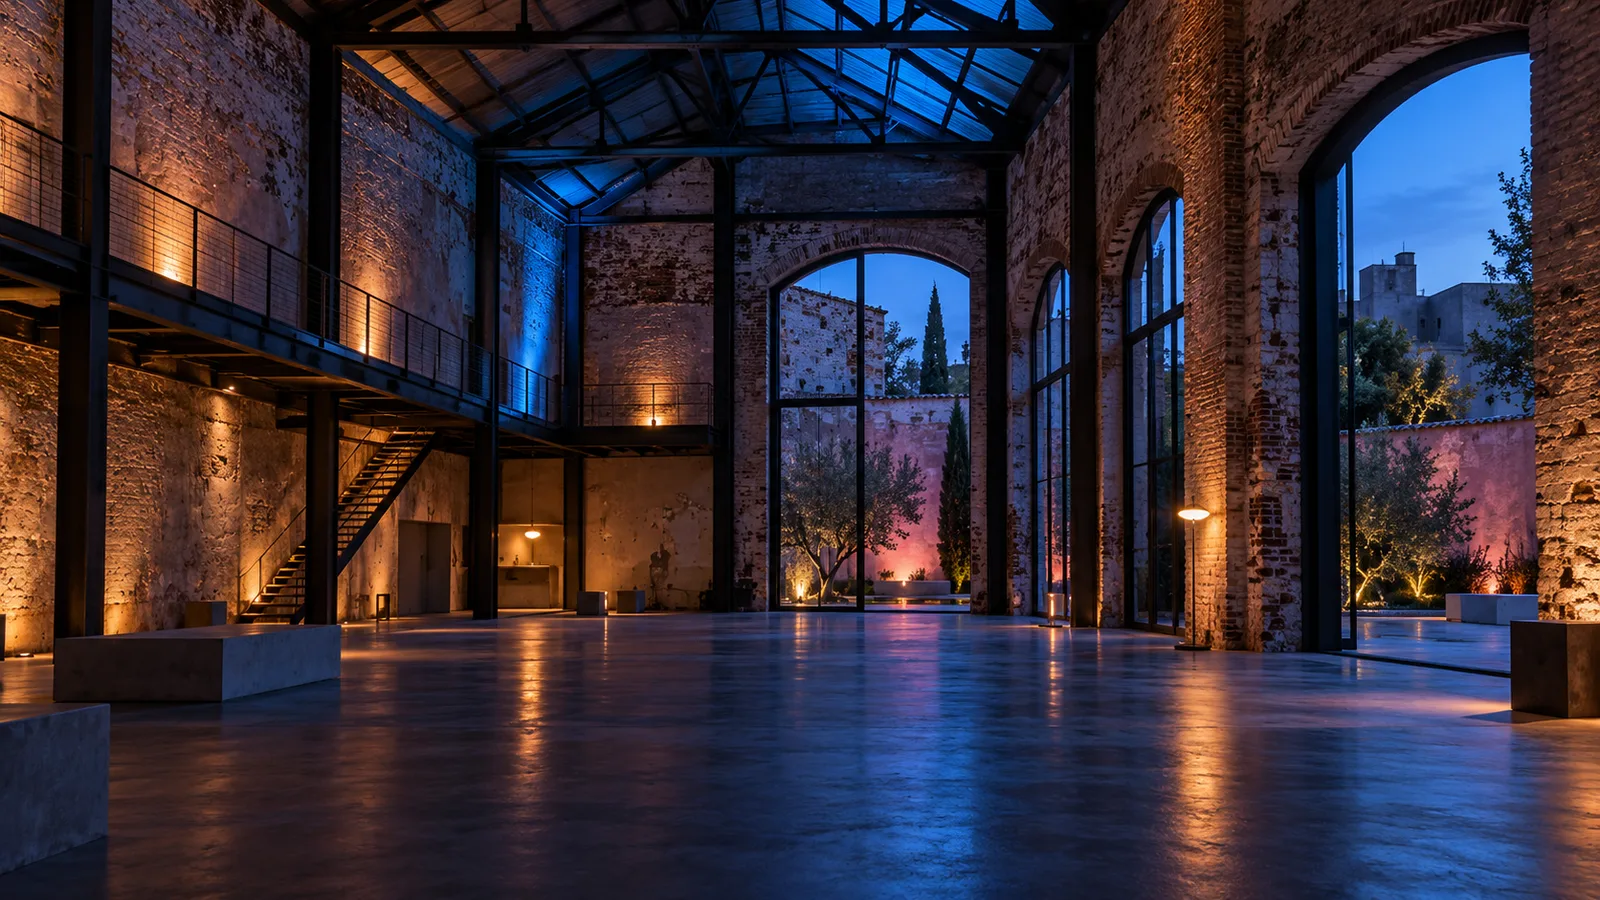
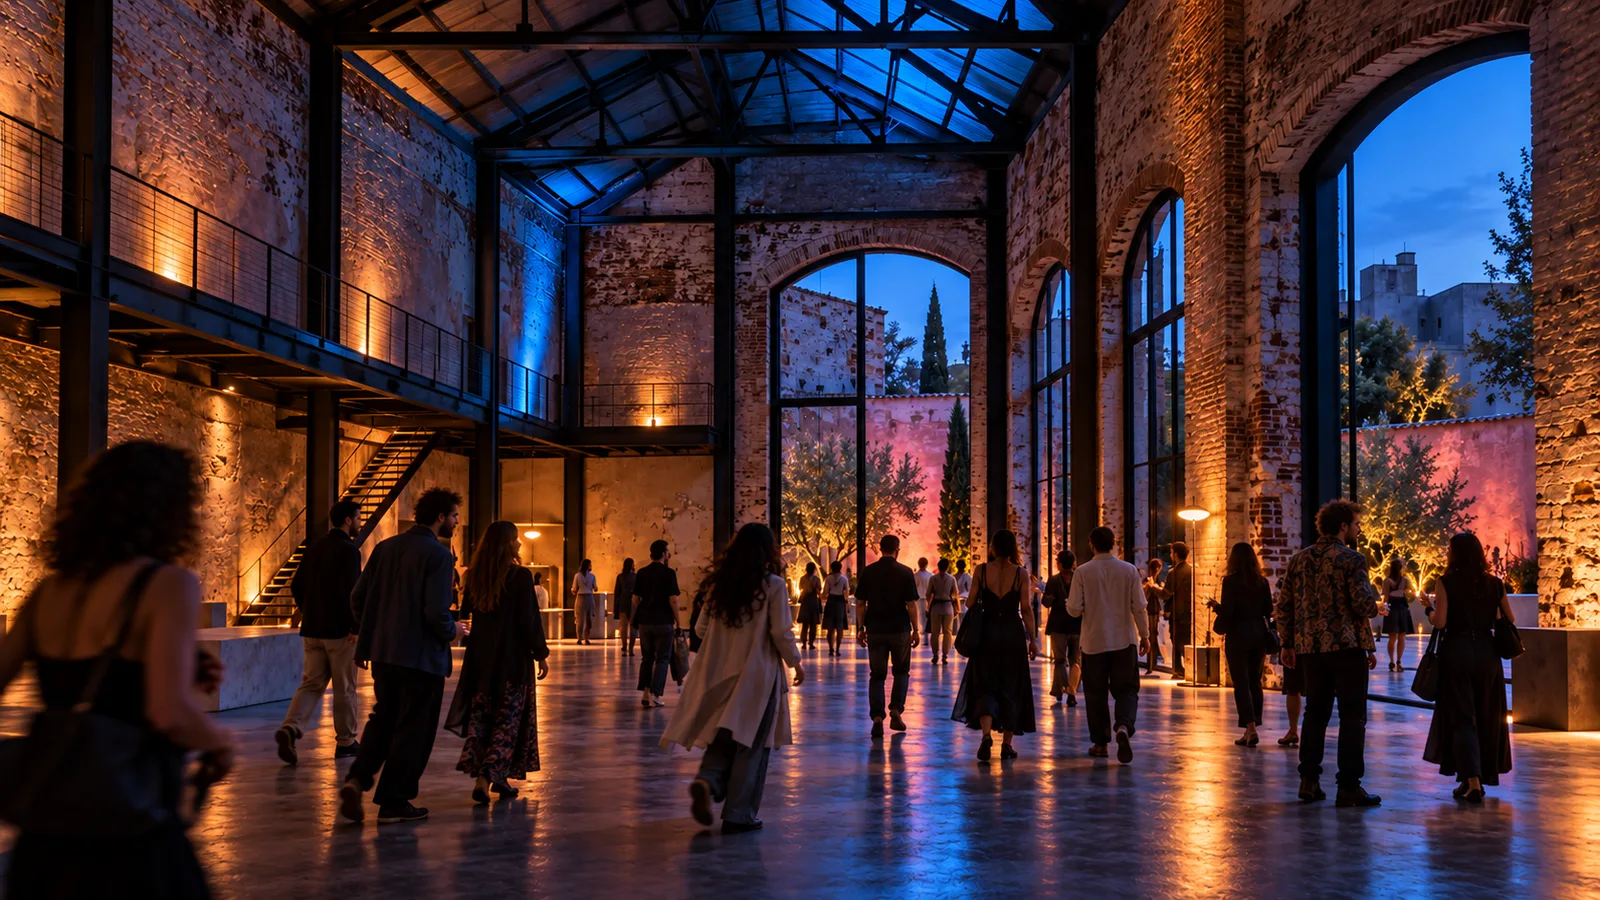
Da más acción y carácter a espacios UMBRAL

diff --git a/docs/cuaderno/demo-umbral-skills.md b/docs/cuaderno/demo-umbral-skills.md
@@ -5,7 +5,7 @@ tipo: demo
 estado: hecho
 referencias: []
 fichas: [examples/demo-umbral/BRIEF.md]
-ruta: http://127.0.0.1:3435
+ruta: http://127.0.0.1:3436
 codigo: [examples/demo-umbral/app/page.tsx.txt, examples/demo-umbral/app/ui/spaces-gallery.tsx.txt, examples/demo-umbral/app/programa/page.tsx.txt, examples/demo-umbral/app/entradas/page.tsx.txt, examples/demo-umbral/public/espacios]
 colores: [#f4d4d4, #2b1d1d, #2f5be0, #ffcf4a, #fff7f0]
 fuentes: [Bricolage Grotesque, Instrument Sans, Silkscreen]
@@ -42,9 +42,10 @@ y espacio; cantidad y total; validación de datos en navegador; persistencia loc
 muestra. La fuente del consumidor quedó conservada en `examples/demo-umbral/` y el preparador escribe solo en un destino
 nuevo bajo `.cache/`.
 
-Después de revisar la demo, se generaron tres visualizaciones conceptuales del recinto ficticio y sus espacios con
-Codex imagegen; se integraron en una galería responsive de la portada, con textos alternativos y aviso visible. Los tres
-WebP optimizados pesan aproximadamente 0,8 MB en conjunto.
+Después de revisar la demo, se generaron visualizaciones conceptuales del recinto ficticio y sus espacios con Codex
+imagegen. Tras valoración del usuario, una segunda pasada incorporó personas en movimiento y reemplazó las tres tarjetas
+iguales por un collage asimétrico de recorrido con Nave A enmarcada como un arco. Los WebP llevan alt descriptivo y
+aviso visible de ficción.
 
 ## Diferencias con la referencia
 
@@ -57,7 +58,8 @@ de entrega y pago; se usaron piezas públicas más pequeñas.
 El catálogo y las skills bastaron para resolver la estructura sin ampliar el kit. La primera comprobación visual halló
 que el encabezado se desbordaba en 320 px y que un enlace del hero heredaba texto oscuro sobre azul; ambos ajustes
 locales pasan ahora el barrido responsive y contraste. La galería hace tangibles los espacios y, al mismo tiempo,
-explicita que las vistas son generadas y ficticias. El almacenamiento local permite probar la recuperación, pero el
+explicita que las vistas y asistentes son generados y ficticios. El arco de Nave A conecta las escenas con el motivo del
+portal. El almacenamiento local permite probar la recuperación, pero el
 estado vacío y el aviso dejan claro que no existe un pedido real.
 
 ## Siguiente

diff --git a/docs/tareas/evolucion-agentes.md b/docs/tareas/evolucion-agentes.md
@@ -285,3 +285,11 @@
 - Decisiones: se conserva el portal geométrico SVG como motivo de identidad y las nuevas imágenes se concentran en la galería, donde ayudan a distinguir lugar y espacios. No se presentan como fotos de una ubicación real.
 - Comprobaciones: build y pruebas de recorrido de un consumidor aislado, `npm run smoke`, revisión visual en escritorio y móvil, `npm run verify`, `npm run lab:cuaderno` y `git diff --check`.
 - Siguiente paso: revisión del usuario en `http://127.0.0.1:3436/`, con el preview de producción disponible para abrirlo en navegador. El servidor anterior en 3435 sigue intacto.
+
+## Revisión de dirección visual de UMBRAL (30 de octubre de 2026)
+
+- Objetivo: responder a la valoración de que las imágenes y su disposición se sentían genéricas, y mostrar más acción humana en los espacios.
+- Cambios: se generaron nuevas visualizaciones con asistentes entrando y encontrándose en Nave 08, bailando en Nave A y alternando baile/conversación en el Patio. La galería pasa de tres tarjetas iguales a un collage de recorrido: Nave A domina en un arco; entrada y patio se escalonan a su lado, con marcas 00–02 que señalan la ruta real del recinto.
+- Decisiones: el arco enlaza la sala principal con el portal geométrico del hero; el azul y amarillo vienen de la guía elegida. Se conserva el aviso de que personas y lugares son generados y ficticios.
+- Comprobaciones: typecheck y build del consumidor aislado correctos; QA completo del recorrido, filtros, compra de muestra y transiciones; axe sin violaciones; las tres imágenes cargan con alt y aviso ficticio; sin overflow a 320/390/768/1440 px; `smoke` en las tres rutas sin errores ni sombras; revisión de capturas de escritorio y móvil. `npm run verify` y `git diff --check` correctos.
+- Siguiente paso: revisar la versión actualizada en `http://127.0.0.1:3436/`.

diff --git a/docs/cuaderno/README.md b/docs/cuaderno/README.md
@@ -9,7 +9,7 @@
 
 | Fecha | Ficha | Tipo | Estado | Sector | Familia de estilo | Dónde |
 |---|---|---|---|---|---|---|
-| 2026-10-30 | [demo-umbral-skills](demo-umbral-skills.md) · UMBRAL, festival ficticio compuesto con las skills de Trama | demo | hecho | cultura | lúdico | `http://127.0.0.1:3435` |
+| 2026-10-30 | [demo-umbral-skills](demo-umbral-skills.md) · UMBRAL, festival ficticio compuesto con las skills de Trama | demo | hecho | cultura | lúdico | `http://127.0.0.1:3436` |
 | 2026-10-29 | [demo-linde-agentes](demo-linde-agentes.md) · Linde, consumidor limpio para el piloto de agentes | demo | en curso | peluquería | salón editorial claro |  |
 | 2026-10-29 | [herramienta-conocimiento-agentes](herramienta-conocimiento-agentes.md) · Conocimiento generado y selectivo para agentes | herramienta | hecho | peluquería | salón editorial claro |  |
 | 2026-10-29 | [herramienta-evaluacion-agentes](herramienta-evaluacion-agentes.md) · Evaluación de agentes con y sin skills de Trama | herramienta | hecho | peluquería | salón editorial claro |  |

diff --git a/examples/demo-umbral/BRIEF.md b/examples/demo-umbral/BRIEF.md
@@ -21,8 +21,10 @@ guía ya incluida en Trama.
 ## Imágenes del recinto
 
 Las imágenes WebP de `public/espacios/` se generaron con Codex imagegen a partir de un brief común de arquitectura
-industrial, luz azul, lámparas amarillas y ambiente rosado. Representan espacios inventados; no documentan un recinto
-real. La galería los etiqueta de forma visible y cada imagen tiene texto alternativo que declara su carácter conceptual.
+industrial, luz azul, lámparas amarillas y ambiente rosado. La segunda dirección muestra acciones humanas: entrada y
+encuentro en Nave 08, baile ante un directo en Nave A, y conversación y baile en el Patio. La galería deja la retícula
+de tres tarjetas por un collage de recorrido, con Nave A en un marco de arco que retoma el portal del hero. Representan
+espacios y asistentes inventados; el aviso y los textos alternativos declaran su carácter conceptual.
 
 ## Composición y piezas
 
